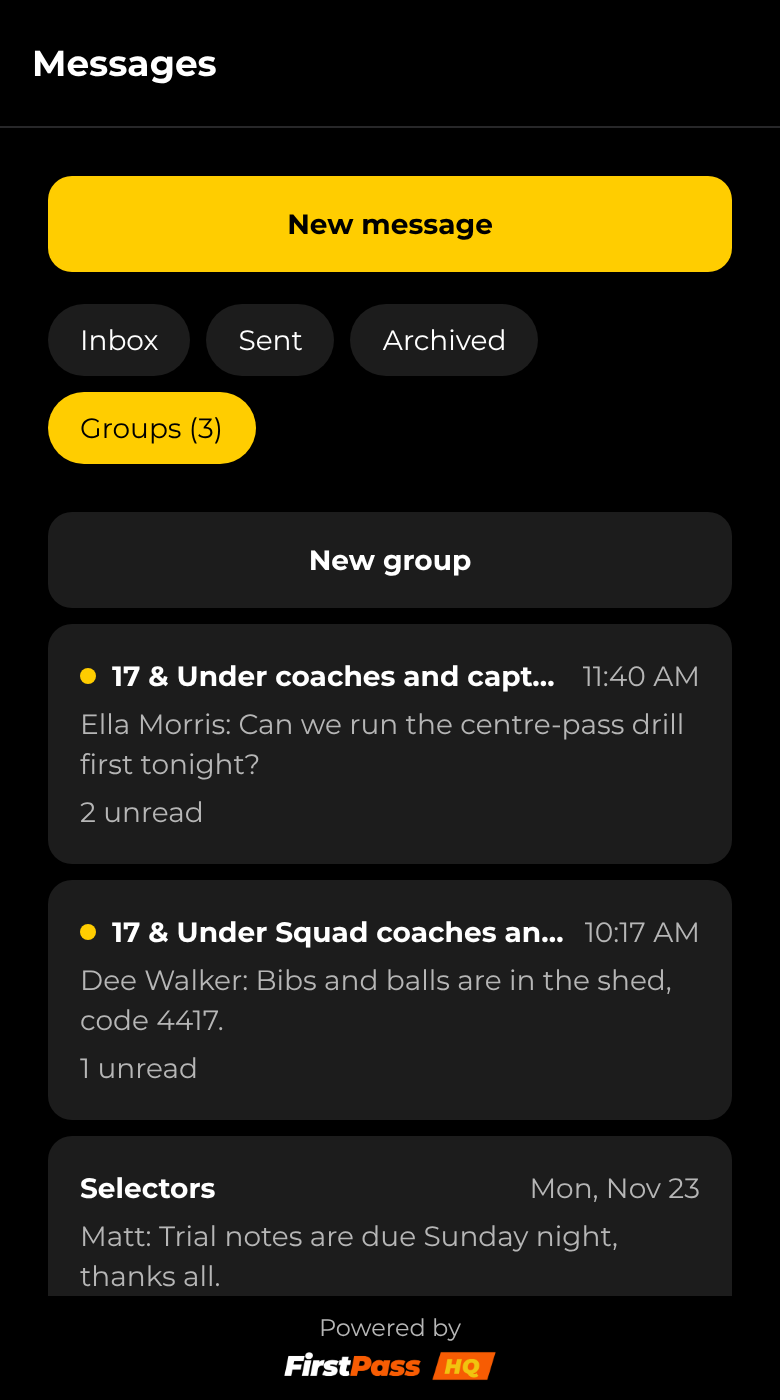
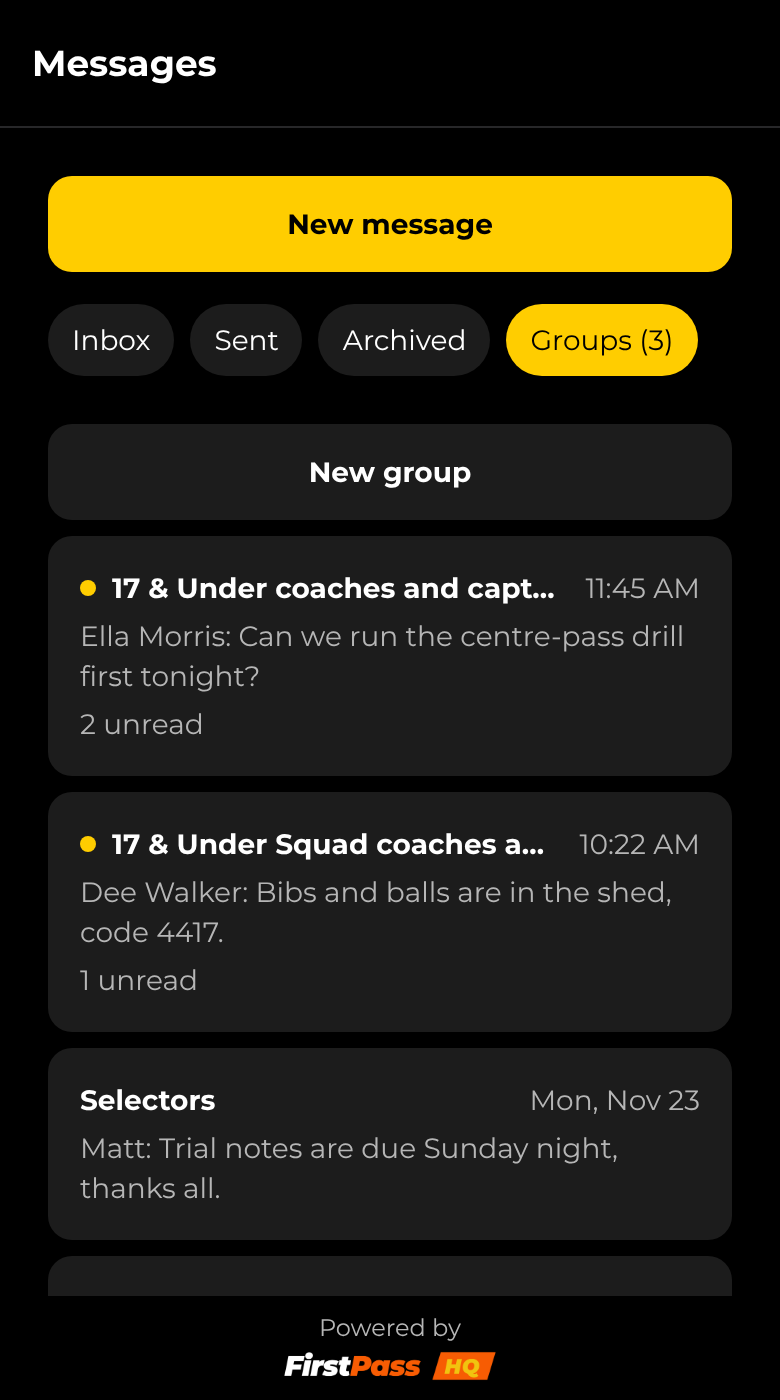
Keep the Messages tabs on one line
Inbox, Sent, Archived and Groups now sit on one line with tighter chips;
if they still don't fit (large text sizes), the line scrolls sideways
rather than wrapping. ChipGroup gains a oneLine option.

Claude-Session: https://claude.ai/code/session_019HSmiAFyVNDj9KJoY3Me5u

Changed region(s): [[0.0615, 0.215, 0.9538, 0.9214]]

diff --git a/src/components/ui.tsx b/src/components/ui.tsx
@@ -3,6 +3,7 @@ import {
   ActivityIndicator,
   Keyboard,
   Pressable,
+  ScrollView,
   StyleSheet,
   TextInput,
   View,
@@ -145,38 +146,60 @@ export function ChipGroup<T extends string>({
   options,
   selected,
   onToggle,
+  oneLine = false,
 }: {
   label?: string;
   options: { value: T; label: string }[];
   selected: T[];
   onToggle: (value: T) => void;
+  /**
+   * Keeps the chips on one line, tighter, as tabs. If they still don't fit
+   * (large text sizes), the line scrolls sideways rather than wrapping.
+   */
+  oneLine?: boolean;
 }) {
   const theme = useTheme();
+  const chips = options.map((option) => {
+    const isSelected = selected.includes(option.value);
+    return (
+      <Pressable
+        key={option.value}
+        accessibilityRole="button"
+        accessibilityState={{ selected: isSelected }}
+        onPress={() => onToggle(option.value)}
+        style={[
+          styles.chip,
+          oneLine && styles.tightChip,
+          {
+            backgroundColor: isSelected ? theme.accent : theme.backgroundElement,
+          },
+        ]}>
+        <ThemedText
+          type="small"
+          numberOfLines={oneLine ? 1 : undefined}
+          style={isSelected ? { color: theme.onAccent } : undefined}>
+          {option.label}
+        </ThemedText>
+      </Pressable>
+    );
+  });
+  if (oneLine) {
+    return (
+      <View style={styles.field}>
+        {label ? <ThemedText type="smallBold">{label}</ThemedText> : null}
+        <ScrollView
+          horizontal
+          showsHorizontalScrollIndicator={false}
+          contentContainerStyle={styles.chipLine}>
+          {chips}
+        </ScrollView>
+      </View>
+    );
+  }
   return (
     <View style={styles.field}>
       {label ? <ThemedText type="smallBold">{label}</ThemedText> : null}
-      <View style={styles.chips}>
-        {options.map((option) => {
-          const isSelected = selected.includes(option.value);
-          return (
-            <Pressable
-              key={option.value}
-              accessibilityRole="button"
-              accessibilityState={{ selected: isSelected }}
-              onPress={() => onToggle(option.value)}
-              style={[
-                styles.chip,
-                {
-                  backgroundColor: isSelected ? theme.accent : theme.backgroundElement,
-                },
-              ]}>
-              <ThemedText type="small" style={isSelected ? { color: theme.onAccent } : undefined}>
-                {option.label}
-              </ThemedText>
-            </Pressable>
-          );
-        })}
-      </View>
+      <View style={styles.chips}>{chips}</View>
     </View>
   );
 }
@@ -262,6 +285,13 @@ const styles = StyleSheet.create({
     paddingHorizontal: Spacing.three,
     paddingVertical: Spacing.two,
     borderRadius: 999,
+  },
+  tightChip: {
+    paddingHorizontal: 12,
+  },
+  chipLine: {
+    flexDirection: 'row',
+    gap: Spacing.two,
   },
   confirm: {
     gap: Spacing.three,

diff --git a/src/__tests__/chat-groups-screens.test.tsx b/src/__tests__/chat-groups-screens.test.tsx
@@ -225,6 +225,17 @@ describe('the Groups tab', () => {
     },
   );
 
+  it('keeps Inbox, Sent, Archived and Groups on one line', async () => {
+    await openList('coach', [group({ unread_count: 12 })]);
+    const line = screen.container.queryAll(
+      (n) => n.props.horizontal === true && n.props.contentContainerStyle?.flexDirection === 'row',
+    );
+    expect(line).toHaveLength(1);
+    for (const tab of ['Inbox', 'Sent', 'Archived', 'Groups (12)']) {
+      expect(screen.getByText(tab).props.numberOfLines).toBe(1);
+    }
+  });
+
   it('says so when the member is in no groups', async () => {
     await openList('athlete', []);
     await fireEvent.press(screen.getByText('Groups'));

diff --git a/src/app/messages/index.tsx b/src/app/messages/index.tsx
@@ -130,6 +130,7 @@ export default function MessagesScreen() {
           <Button title="New message" onPress={() => router.push('/messages/new')} />
         ) : null}
         <ChipGroup
+          oneLine
           options={messageBoxes(canSend, groupsOn, groupsUnread(groups ?? []))}
           selected={[box]}
           onToggle={(next) => {
